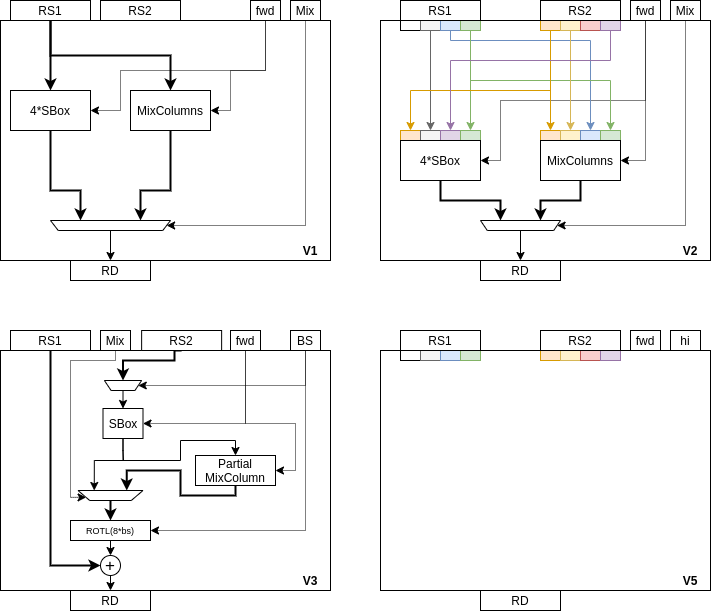
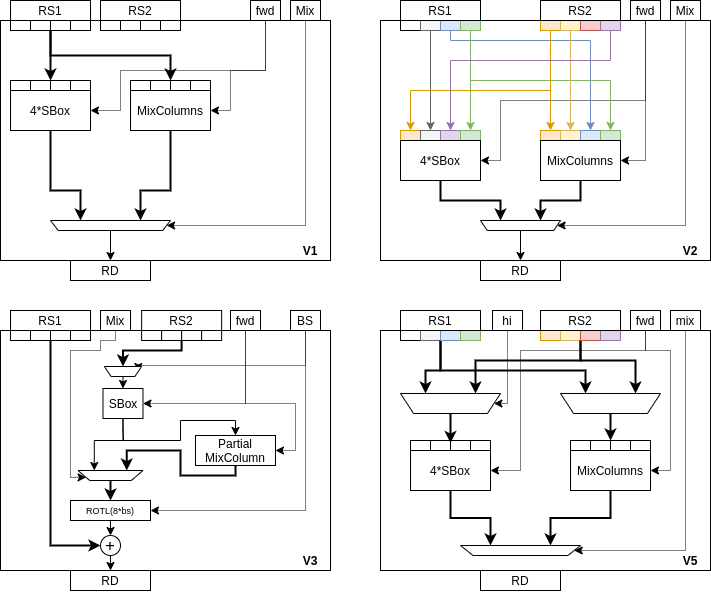
paper: uarch diagrams and pseudo-code
- Added combined and individual uarch block diagrams for v1/v2/v3/v5

- Refactored pseudo-code for each variant.

  - Split into instructions and common functions.

 On branch master
 Your branch is up-to-date with 'origin/master'.

 Changes to be committed:
	new file:   doc/diagrams/ise-datapath-v1.png
	new file:   doc/diagrams/ise-datapath-v2.png
	new file:   doc/diagrams/ise-datapath-v3.png
	new file:   doc/diagrams/ise-datapath-v5.png
	modified:   doc/diagrams/ise-datapaths.drawio
	modified:   doc/diagrams/ise-datapaths.png
	modified:   doc/tex/design-core.tex
	modified:   doc/tex/design_v1.tex
	modified:   doc/tex/design_v2.tex
	modified:   doc/tex/design_v3.tex
	modified:   doc/tex/design_v4.tex
	modified:   doc/tex/design_v5.tex

 Changes not staged for commit:
	modified:   extern/riscv-gnu-toolchain (modified content)
	modified:   extern/riscv-isa-sim (modified content)
	modified:   extern/scarv-cpu (modified content)

diff --git a/doc/tex/design_v4.tex b/doc/tex/design_v4.tex
@@ -1,47 +1,50 @@
 % =============================================================================
 
-\subsubsection{ISE interface}
-
-% TODO: instruction definition(s)
-
-% -----------------------------------------------------------------------------
-
-\subsubsection{ISE implementation}
 
 \begin{lstlisting}[language=pseudo,style=block]
-round_consts.8 = [0x01, 0x02, 0x04, 0x08, 0x10, 0x20, 0x40, 0x80, 0x1b, 0x36]
+saes.v4.ks1       rd rs1 rcon : rd = v4.ks1(rs1, rcon)
+saes.v4.ks2       rd rs1 rs2  : rd = v4.ks2(rs1, rs2 )
+saes.v4.imix      rd rs1      : rd = v4.InvMix(rs1)
+saes.v4.encsm.lo  rd rs1 rs2  : rd = v4.Enc(rs1, rs2, mix=1, hi=0)
+saes.v4.encsm.hi  rd rs1 rs2  : rd = v4.Enc(rs1, rs2, mix=1, hi=1)
+saes.v4.encs.lo   rd rs1 rs2  : rd = v4.Enc(rs1, rs2, mix=0, hi=0)
+saes.v4.encs.hi   rd rs1 rs2  : rd = v4.Enc(rs1, rs2, mix=0, hi=1)
+saes.v4.decsm.lo  rd rs1 rs2  : rd = v4.Dec(rs1, rs2, mix=1, hi=0)
+saes.v4.decsm.hi  rd rs1 rs2  : rd = v4.Dec(rs1, rs2, mix=1, hi=1)
+saes.v4.decs.lo   rd rs1 rs2  : rd = v4.Dec(rs1, rs2, mix=0, hi=0)
+saes.v4.decs.hi   rd rs1 rs2  : rd = v4.Dec(rs1, rs2, mix=0, hi=1)
+\end{lstlisting}
 
-saes64.ks1(rs1,enc_rcon):      // KeySchedule: SubBytes, Rotate, Round Const
+
+\begin{lstlisting}[language=pseudo,style=block]
+v4.ks1(rs1, enc_rcon):     // KeySchedule: SubBytes, Rotate, Round Const
     temp.32   = rs1.32[1]
     rcon      = 0x0
     if(enc_rcon != 0xA):
         temp.32 = ROTR32(temp.32, 8)
-        rcon    = round_consts.8[enc_rcon]
-    temp.8[i] = AESSBox(temp.8[i])  for i=0..3
-    temp.8[0] = temp.8[i  ] ^ rcon
+        rcon    = RoundConstants.8[enc_rcon]
+    temp.8[i] = SubByte(temp.8[i])  for i=0..3
+    temp.8[0] = temp.8[0] ^ rcon
     rd.64     = {temp.32, temp.32}
 
-saes64.ks2(rs1,rs2):           // KeySchedule: XOR
+v4.ks2(rs1, rs2):           // KeySchedule: XOR
     rd.32[0]  = rs1.32[1] ^ rs2.32[0]
     rd.32[1]  = rs1.32[1] ^ rs2.32[0] ^ rs2.32[1]
 
-saes64.enc(rs1, rs2, mix, hi): // SubBytes, ShiftRows, MixColumns
-    t1.128    = AESShiftRows(rs2 || rs1)
+v4.Enc(rs1, rs2, mix, hi): // SubBytes, ShiftRows, MixColumns
+    t1.128    = ShiftRows({rs2, rs1})
     t2.64     = t1.64[1] if hi else t1.64[0]
-    t3.8[i]   = AESSBox(t2.8[i]) for i=0..7
-    rd.32[0]  = AESMixColumn(t3.32[0]) if mix else t3.32[0]
-    rd.32[1]  = AESMixColumn(t3.32[1]) if mix else t3.32[1]
+    t3.8[i]   = SubByte(t2.8[i]) for i=0..7
+    rd.32[i]  = MixColumn(t3.32[i]) if mix else t3.32[i] for i=0..1
 
-saes64.dec(rs1, rs2, mix, hi): // InvSubBytes, InvShiftRows, InvMixColumns
-    t1.128    = InvAESShiftRows(rs2 || rs1)
+v4.Dec(rs1, rs2, mix, hi): // InvSubBytes, InvShiftRows, InvMixColumns
+    t1.128    = InvShiftRows(rs2 || rs1)
     t2.64     = t1.64[1] if hi else t1.64[0]
-    t3.8[i]   = InvAESSBox(t2.8[i]) for i=0..7
-    rd.32[0]  = InvAESMixColumn(t3.32[0]) if mix else t3.32[0]
-    rd.32[1]  = InvAESMixColumn(t3.32[1]) if mix else t3.32[1]
+    t3.8[i]   = SBox(t2.8[i]) for i=0..7
+    rd.32[i]  = InvMixColumn(t3.32[i]) if mix else t3.32[i] for i=0..1
 
-saes64.imix(rs1):              // Inverse MixColumns
-    rd.32[0]  = InvAESMixColumn(rs1.32[0])
-    rd.32[1]  = InvAESMixColumn(rs1.32[1])
+v4.InvMix(rs1):             // Inverse MixColumns
+    rd.32[i]  = MixColumn(rs1.32[i]) for i=0..1
 \end{lstlisting}
 
 % TODO: micro-architecture diagram

diff --git a/doc/tex/design_v5.tex b/doc/tex/design_v5.tex
@@ -1,15 +1,17 @@
 % =============================================================================
 
-\subsubsection{ISE interface}
-
-% TODO: instruction definition(s)
-
-% -----------------------------------------------------------------------------
-
-\subsubsection{ISE implementation}
+\begin{lstlisting}[language=pseudo,style=block]
+saes.v5.esrsub.lo rd, rs1, rs2 : rd = v5.SrSub(rs1, rs2, fwd=1, hi=0)
+saes.v5.esrsub.hi rd, rs1, rs2 : rd = v5.SrSub(rs1, rs2, fwd=1, hi=1)
+saes.v5.dsrsub.lo rd, rs1, rs2 : rd = v5.SrSub(rs1, rs2, fwd=0, hi=0)
+saes.v5.dsrsub.hi rd, rs1, rs2 : rd = v5.SrSub(rs1, rs2, fwd=0, hi=1)
+saes.v5.emix      rd, rs1, rs2 : rd = v5.Mix(rs1, rs2, fwd=1)
+saes.v5.dmix      rd, rs1, rs2 : rd = v5.Mix(rs1, rs2, fwd=0)
+saes.v5.sub       rd, rs1      : rd = SubBytes(rs1.8[i])         for i=0..3
+\end{lstlisting}
 
 \begin{lstlisting}[language=pseudo,style=block]
-saes.v5.srsub(rs1, rs2, fwd, hi):
+v5.SrSub(rs1, rs2, fwd, hi):
   if(fwd):
     if hi: tmp.32 = {rs1.8[3], rs2.8[0], rs2.8[1], rs2.8[2]}
     else : tmp.32 = {rs2.8[3], rs1.8[1], rs1.8[0], rs1.8[2]}
@@ -21,10 +23,7 @@ saes.v5.srsub(rs1, rs2, fwd, hi):
   if(hi): rd.32 = {tmp.8[2],tmp.8[3],tmp.8[0],tmp.8[1]}
   else  : rd.32 = {tmp.8[1],tmp.8[3],tmp.8[0],tmp.8[2]}
 
-saes.v5.sub(rs1):
-  rd.8[i] = AESSBox[rs1.8[i]] for i = 0..3
-
-saes.v5.mix(rs1, rs2, fwd):
+v5.mix(rs1, rs2, fwd):
   col0.32 = {rs1.8[2], rs1.8[3], rs2.8[2], rs2.8[3]}
   col1.32 = {rs1.8[0], rs1.8[1], rs2.8[0], rs2.8[1]}
   n0.8    = MixColumn(       col0   , fwd)
@@ -34,6 +33,5 @@ saes.v5.mix(rs1, rs2, fwd):
   rd.32 = {n2, n3, n0, n1}
 \end{lstlisting}
 
-% TODO: micro-architecture diagram
 
 % =============================================================================

diff --git a/doc/tex/design-core.tex b/doc/tex/design-core.tex
@@ -41,15 +41,42 @@ give a simplified datapath diagram for the AES FU internals.
 
 \begin{figure}
 \centering
-\includegraphics[scale=0.5,angle=90]{diagrams/scarv-cpu-uarch.png}
-\subcaption{Core $2$: \CORE{2}.}
+\includegraphics[scale=0.45,angle=90]{diagrams/scarv-cpu-uarch.png}
+\caption{Core $2$: \CORE{2}.}
 \label{fig:design:cpu_block:2}
 \end{figure}
 
-% TODO move or split into pieces.
 \begin{figure}
 \centering
-\includegraphics[scale=0.5]{diagrams/ise-datapaths.png}
-\subcaption{Datapath diagrams for the four 32-bit ISE variants.}
-\label{fig:design:fu_block:2}
+\begin{subfigure}[t]{0.40\textwidth}
+    \centering
+    \includegraphics[width=\textwidth]{diagrams/ise-datapath-v1.png}
+    \caption{Variant 1}
+    \label{fig:design:fu_block:v1}
+\end{subfigure}
+\begin{subfigure}[t]{0.40\textwidth}
+    \centering
+    \includegraphics[width=\textwidth]{diagrams/ise-datapath-v2.png}
+    \caption{Variant 2}
+    \label{fig:design:fu_block:v2}
+\end{subfigure}
+
+\begin{subfigure}[t]{0.40\textwidth}
+    \centering
+    \includegraphics[width=\textwidth]{diagrams/ise-datapath-v3.png}
+    \caption{Variant 3}
+    \label{fig:design:fu_block:v3}
+\end{subfigure}
+\begin{subfigure}[t]{0.40\textwidth}
+    \centering
+    \includegraphics[width=\textwidth]{diagrams/ise-datapath-v5.png}
+    \caption{Variant 5}
+    \label{fig:design:fu_block:v5}
+\end{subfigure}
+
+\caption{
+Micro-architecture block diagrams for the AES functional units, for
+each ISE variant.
+}
 \end{figure}
+

diff --git a/doc/tex/design_v3.tex b/doc/tex/design_v3.tex
@@ -1,15 +1,16 @@
 % =============================================================================
 
-\subsubsection{ISE interface}
-
-% TODO: instruction definition(s)
-
-% -----------------------------------------------------------------------------
-
-\subsubsection{ISE implementation}
 
 \begin{lstlisting}[language=pseudo,style=block]
-saes.v3(rs1, rs2, bs, fwd, mix):
+saes.v3.encs  rd, rs1, rs2, bs : rd = v3.Proc(rs1, rs2, bs, fwd=1, mix=0)
+saes.v3.encsm rd, rs1, rs2, bs : rd = v3.Proc(rs1, rs2, bs, fwd=1, mix=1)
+saes.v3.decs  rd, rs1, rs2, bs : rd = v3.Proc(rs1, rs2, bs, fwd=0, mix=0)
+saes.v3.decsm rd, rs1, rs2, bs : rd = v3.Proc(rs1, rs2, bs, fwd=0, mix=1)
+\end{lstlisting}
+
+
+\begin{lstlisting}[language=pseudo,style=block]
+v3.Proc(rs1, rs2, bs, fwd, mix):
   x     = SubByte(rs2.8[bs], fwd)
   if   mix and  fwd: t1.32 = {GFMUL(x, 3),      x    ,      x   ,GFMUL(x, 2)}
   elif mix and !fwd: t1.32 = {GFMUL(x,11),GFMUL(x,13),GFMUL(x,9),GFMUL(x,14)}
@@ -17,6 +18,5 @@ saes.v3(rs1, rs2, bs, fwd, mix):
   rd.32 = ROTL32(t1.32, 8*bs) ^ rs1
 \end{lstlisting}
 
-% TODO: micro-architecture diagram
 
 % =============================================================================

diff --git a/doc/tex/design_v2.tex b/doc/tex/design_v2.tex
@@ -1,23 +1,23 @@
 % =============================================================================
 
-\subsubsection{ISE interface}
-
-% TODO: instruction definition(s)
-
-% -----------------------------------------------------------------------------
-
-\subsubsection{ISE implementation}
 
 \begin{lstlisting}[language=pseudo,style=block]
-saes.v2.SubBytes(rs1, rs2, fwd):
+saes.v2.sub.enc rd, rs1, rs2 : rd = v2.SubBytes(rs1, rs2, fwd=1)
+saes.v2.sub.dec rd, rs1, rs2 : rd = v2.SubBytes(rs1, rs2, fwd=0)
+saes.v2.mix.enc rd, rs1, rs2 : rd = v2.MixColumns(rs1, rs2, fwd=1)
+saes.v2.mix.dec rd, rs1, rs2 : rd = v2.MixColumns(rs1, rs2, fwd=0)
+\end{lstlisting}
+
+
+\begin{lstlisting}[language=pseudo,style=block]
+v2.SubBytes(rs1, rs2, fwd):
   t1.32  = {rs1.8[0], rs2.8[1], rs1.8[2], rs2.8[3]}
   rd.8[i]= SubBytes(t1.8[i], fwd)            for i=0..3
 
-saes.v2.MixColumns(rs1, rs2, fwd):
+v2.MixColumns(rs1, rs2, fwd):
   t1.32  = {rs1.8[0], rs1.8[1], rs2.8[2], rs2.8[3]}
   rd.8[i]= MixColumn(ROTL32(rs1.32, 8*i), fwd) for i=0..3
 \end{lstlisting}
 
-% TODO: micro-architecture diagram
 
 % =============================================================================

diff --git a/doc/tex/design_v1.tex b/doc/tex/design_v1.tex
@@ -1,21 +1,12 @@
 % =============================================================================
 
-\subsubsection{ISE interface}
-
-% TODO: instruction definition(s)
-
-% -----------------------------------------------------------------------------
-
-\subsubsection{ISE implementation}
 
 \begin{lstlisting}[language=pseudo,style=block]
-saes.v1.SubBytes(rs1, fwd):
-  rd.8[i] = SubBytes(rs1.8[i], fwd) for i=0..3
-
-saes.v1.MixColumns(rs1, fwd):
-  rd.8[i] = MixColumn(ROTL32(rs1.32, 8*i)), fwd) for i=0..3
+saes.v1.encs rd, rs1 : rd.8[i] = SubBytes(rs1.8[i])                for i=0..3
+saes.v1.encm rd, rs1 : rd.8[i] = MixColumn(ROTL32(rs1.32, 8*i))    for i=0..3
+saes.v1.decs rd, rs1 : rd.8[i] = InvSubBytes(rs1.8[i])             for i=0..3
+saes.v1.decm rd, rs1 : rd.8[i] = InvMixColumn(ROTL32(rs1.32, 8*i)) for i=0..3
 \end{lstlisting}
 
-% TODO: micro-architecture diagram
 
 % =============================================================================
